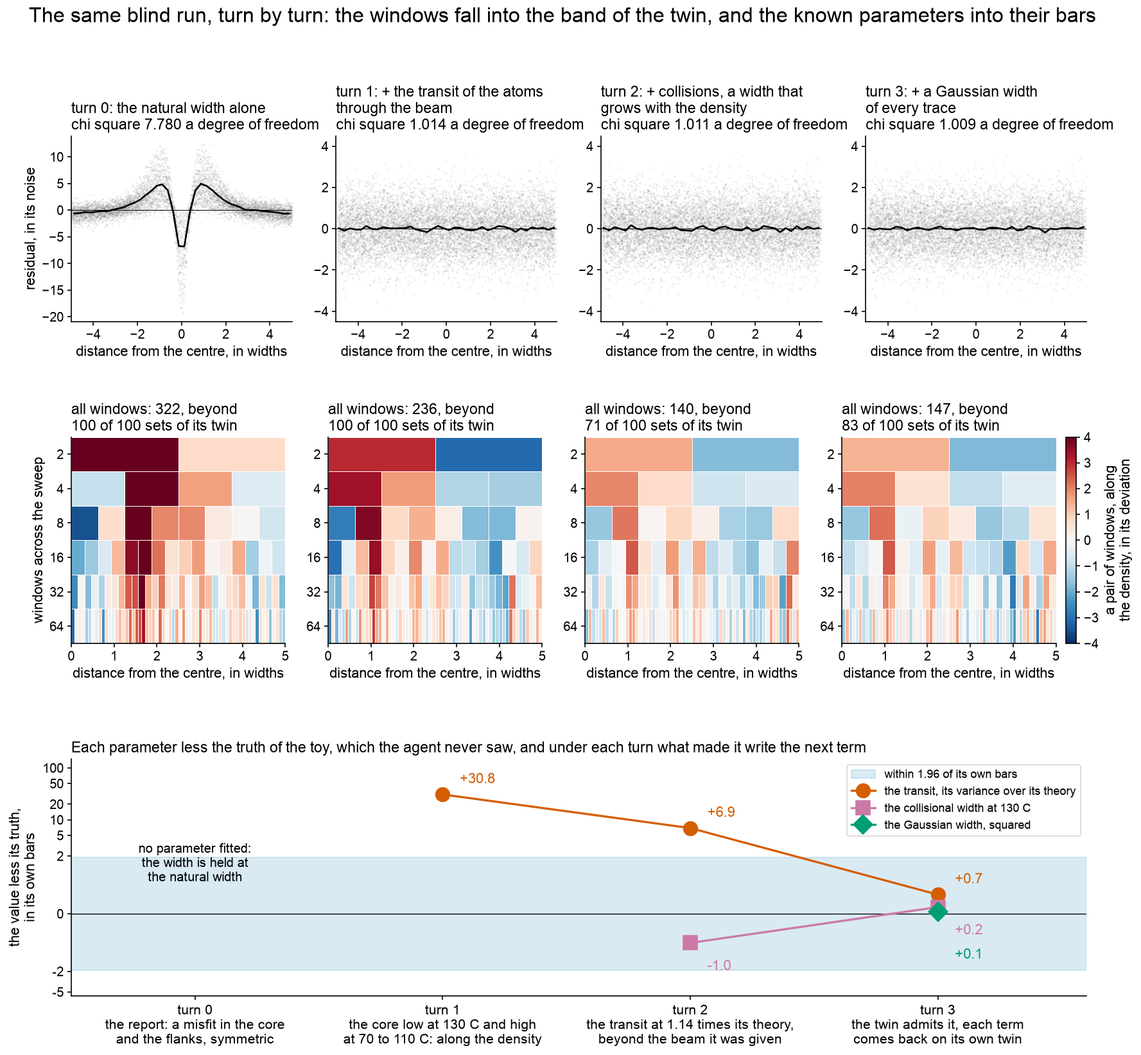
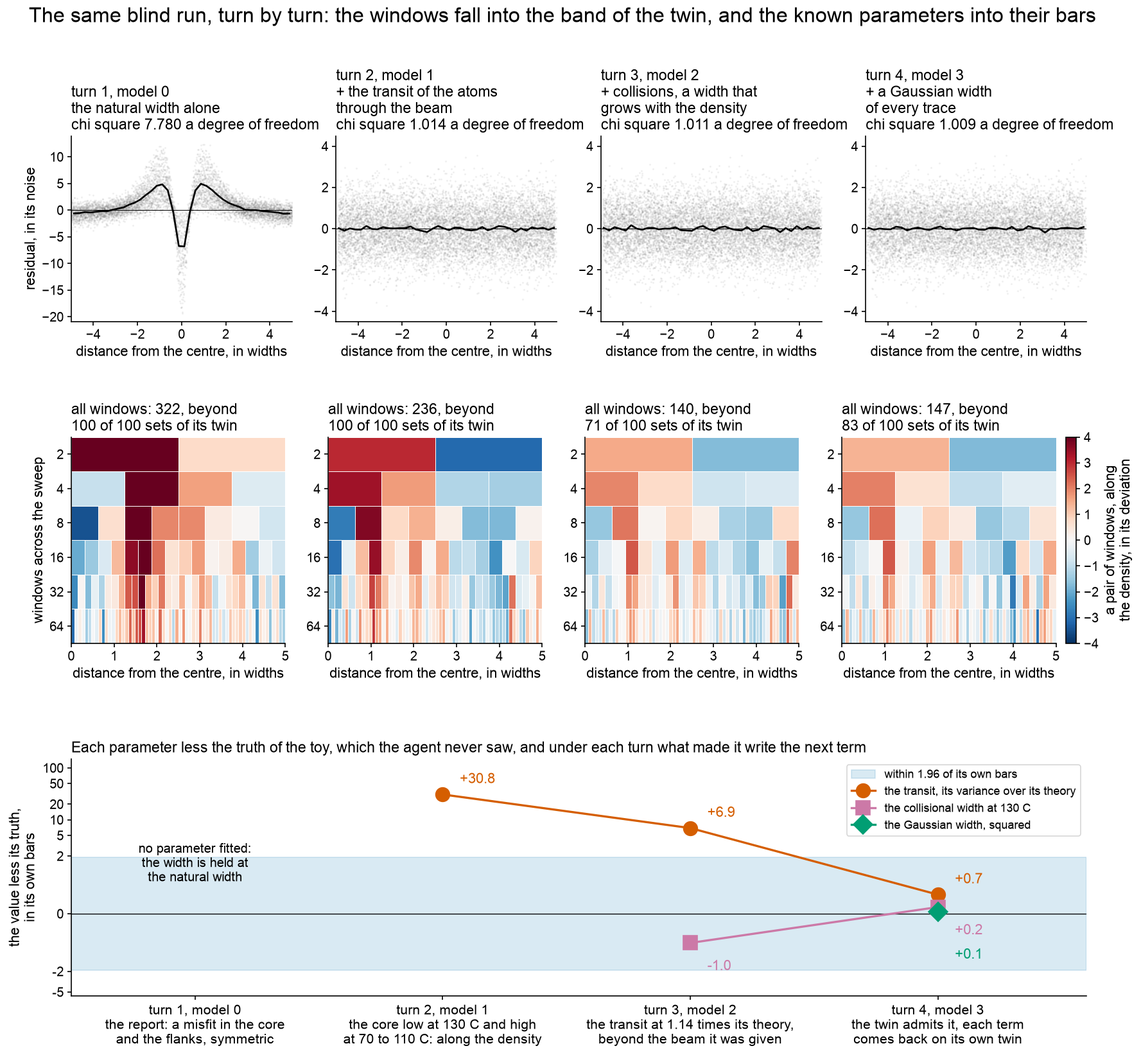
twinfit 0.0.8, the package as its release on PyPI holds it, exported from commit 1ba312b of the repository where it is made

diff --git a/twinfit/version.py b/twinfit/version.py
@@ -13,7 +13,7 @@ from __future__ import annotations
 import hashlib
 from pathlib import Path
 
-__version__ = "0.0.7"
+__version__ = "0.0.8"
 
 VERSIONS = {
[1 lines of base64/hex data omitted]
@@ -227,6 +227,11 @@ VERSIONS = {
         "the opening of the README, which PyPI shows, written as one page that presents the package, how it works, what it gives and what it cannot do, for a reader who meets it first, his message 232. 0.0.6 was never uploaded, so the release is this number",
         "the floors of the versions derived from the speed of numpy, as the other repository of this work derives them, his messages 233 and 234: numpy 2.5, which convolves about ten times faster than numpy 1.26 on the convolution of the term widened, and so Python 3.12 and scipy 1.16, each run by a clean leg, Python 3.12 with numpy 2.5.0 and scipy 1.16.0 and Python 3.14 with numpy 2.5.2 and scipy 1.18.0. pip refuses a version under a floor. The import of the package keeps its check of Python 3.11, numpy and scipy, since every count of the toy reads the file that holds it",
         "the two figures of the README drawn on a blind run of an agent on eight synthetic curves of a two photon line, his messages 235, 237 and 238: every sample, and the sums of what a fit leaves in pairs of windows cut at six scales, each a number that is noise about zero when nothing is missing, read against the twin of the fit, turn by turn",
[1 lines of base64/hex data omitted]
+        "repairs: review 39 of candidate 39: 0.0.7 was uploaded to PyPI on 2026-10-18 with the errors of its README that the review found, and a version is never replaced, so its repairs are this number",
+        "repairs of review 39, moderate 2: the floor of numpy said as a choice measured on one machine. On a Mac with an arm64 processor numpy 2.5.2 convolves 9000 by 2001 points in 0.80 ms against 10.0 ms for 1.26.4, and on Linux with an x86_64 processor the review measured 2.11 against 1.74 ms, so the speed-up is the build of numpy on the Mac, which the README, the tutorial and pyproject.toml now say",
+        "repairs of review 39, moderates 3, 4, 6 and 7: the opening of the README under 600 words from 1302, with the run of its figures said as the best of three on two draws of one synthetic model, which missed the smallest of the four terms and was stopped at two hours, the grid of the windows of its figure said as drawn for the figure where the report reads six bands, and turns counted from 1 and models from 0",
+        "repairs of review 39, moderate 5: the limit of the report said as a property of the method, which describes a miss by the shapes that it builds from the fitted model, without a nearest shape",
     )},
 }
 

diff --git a/twinfit/tutorial.py b/twinfit/tutorial.py
@@ -135,7 +135,7 @@ The words that the rest of this page uses, each once:
 - **A chi function** is the cost that a fit gives each residual over its noise: its square in a plain fit, another function of it in a fit that weighs large residuals less. Where the residuals are those of the noise, the two fits agree.""")
     say("""## 2. What you need
 
-Python 3.12 or later, with numpy 2.5 or later and scipy 1.16 or later: numpy 2.5 convolves about ten times faster than the versions before it, and the oldest versions that the package has run on are Python 3.12, numpy 2.5.0 and scipy 1.16.0. Where the Python of your machine is called `python3`, or lives at a path of its own, type that in the place of `python` in every command of this page. Install the package from PyPI, `pip install twinfit`, or from a folder that holds it, `pip install /the/folder/that/holds/twinfit`, or put that folder on the path of Python, `export PYTHONPATH=/the/folder/that/holds/twinfit`. Then this prints the version of the package:""")
+Python 3.12 or later, with numpy 2.5 or later and scipy 1.16 or later: numpy 2.5 convolves about ten times faster than numpy 1.26 on a Mac with an arm64 processor, and about as fast on Linux with an x86_64 processor, and the oldest versions that the package has run on are Python 3.12, numpy 2.5.0 and scipy 1.16.0. Where the Python of your machine is called `python3`, or lives at a path of its own, type that in the place of `python` in every command of this page. Install the package from PyPI, `pip install twinfit`, or from a folder that holds it, `pip install /the/folder/that/holds/twinfit`, or put that folder on the path of Python, `export PYTHONPATH=/the/folder/that/holds/twinfit`. Then this prints the version of the package:""")
     run('python -c "import twinfit; print(twinfit.__version__)"')
     say("""## 3. A worked project
 

diff --git a/README.md b/README.md
@@ -4,44 +4,38 @@ Where a model lacks a term: the structure of the residuals of a fit, read agains
 
 ## What it is for
 
-A model fitted to measured curves can pass the usual test of fit and still miss an effect: a broadening, a background, a drift, a distortion of the instrument. The missing effect biases the parameters that are quoted, and a chi square near one does not show it, since it sums over every sample what is often a small structure in one part of the curves. twinfit finds that structure, says what it looks like, and measures what it does to the parameters, for curves of any field: spectra, chromatograms, light curves, resonances, bands of a gel.
+A model fitted to measured curves can pass the usual test of fit and still miss an effect, a broadening, a background or a drift, which biases the quoted parameters while the chi square stays near one. twinfit finds the structure that the effect leaves, says what it looks like and measures what it does to the parameters, for curves of any field.
 
 ## How it works
 
-1. It fits one model to every curve of a design at once, curves recorded at several temperatures, powers, flows or filters, with parameters shared by all the curves and parameters of each curve.
-2. It reads what the fit leaves through families of statistics: moments of the residuals with several kernels and their ratios, moments of their derivative and of their running integral, windows along the abscissa, bands along the height of the curve, crossings of levels, and the chi of every sample.
-3. It sets every reading against a twin: synthetic curves drawn from the fitted model with the noise of the records, fitted and read in the same way. A reading that the twin does not reach is evidence that the model misses something, and the twin says how large a reading of a right model may be.
-4. It compares what the fit leaves with generic shapes built from the fitted model itself: a shifted copy of the curve, a wider pedestal under it, a tail on one side, a slow polynomial of the baseline, a ripple, glitches, a noise that grows with the signal or is correlated from sample to sample. Its report says where the model misses, in the core, the flanks, the wings or the asymmetry of the curves, which of those shapes the miss resembles, and along which setting of the design it changes.
-5. A researcher, or an agent in the researcher's place, writes the physical effect that would leave that structure as a term of the model. twinfit fits it, keeps or refuses it on its twin, and reads the new model again. That is the loop.
-6. Each turn of the loop ends with three proposals for the model and three for the experiment, each measured on the twin. A proposal for the model comes with the bias of every known parameter on the twin without the proposed term and with it.
+1. It fits one model to every curve of a design at once, with parameters shared by all the curves and parameters of each curve.
+2. It reads what the fit leaves through families of statistics, among them sums over pairs of windows about the centre of the curve, and sets each against a twin: synthetic curves drawn from the fitted model with the noise of the records, fitted and read in the same way.
+3. Its report says where the model misses, which shape among those that it builds from the fitted model the miss takes, and along which setting of the design it changes.
+4. A researcher, or an agent in the researcher's place, writes the physical effect as a term. twinfit keeps it only if the Bayesian criterion falls by more than 2 and the twin admits the new model, and ends each turn with three proposals for the model and three for the experiment.
 
 ![A fit that looks right, read against its twin](https://raw.githubusercontent.com/MichelangeloDondi/twinfit/main/twinfit/examples/figures/against_the_twin.png)
 
-*A blind run of an agent with the package, on eight synthetic curves of the line of the real case of `RUBIDIUM.md`, at four temperatures and five powers, drawn from a model whose terms the agent was never told. (a, b) Its second model, the line widened by the time that each atom spends in the beam, fits with a chi square of 1.014 a degree of freedom, and what it leaves looks like noise sample by sample. (c) The distances from the centre of the line cut into 2, 4, 8, 16, 32 and 64 windows, each a pair at equal distances on the two sides, and in each the sum of what the fit leaves, the curves weighted by the density of the vapour less its mean, in its standard deviation after the fit: a number that is noise about zero when nothing is missing, as (d) shows on a synthetic set of the twin. (e) The moments of orders 0, 2 and 4 within windows of growing half width, along the density, beside each of 100 sets of the twin. (f) Each scale read together: where the windows are wide, what the fit leaves adds up and the noise does not, and the second model stands beyond all 100 sets of its twin, while the fourth, with the width that grows with the density and the width of every curve that the agent wrote next, stands within it.*
+*A blind run of an agent on eight synthetic curves of the line of `RUBIDIUM.md`. (a, b) Turn 2, model 1, fits with a chi square of 1.014 a degree of freedom. (c, d) What it leaves, summed in pairs of windows at six scales along the density, a grid drawn for this figure where the report of the package reads six bands: noise about zero when nothing is missing, as on a set of the twin. (e, f) Model 1 stands beyond all 100 sets of its twin, and model 3 within them.*
 
 ## What it gives
 
-The best model after the turns, and each of its parameters with five parts of its uncertainty, never folded into one number: the bar of the fit, the coverage of its interval on the twin with the bias beside it, the bar of the values held from theory, the spread over the models that the records cannot tell apart from the best, and no bar at all where the records fix a combination of two parameters and not each.
+The best model, and each parameter with five parts of its uncertainty, never folded into one number: the bar of the fit, its coverage on the twin, the bar of theory, the spread over models the records cannot tell apart, and none where they fix only a combination.
 
 ![Turn by turn](https://raw.githubusercontent.com/MichelangeloDondi/twinfit/main/twinfit/examples/figures/turn_by_turn.png)
 
-*The same run, turn by turn. Top, what each model leaves, every sample. Middle, its windows along the density, read together against 100 sets of its twin. Bottom, each parameter less the value that made the curves, which the agent never saw, in its own bars, and under each turn what made the agent write the next term. With the time in the beam alone the size of that term reads 31 bars too large while the chi square is 1.014: the terms that the model lacks hide in it. The width along the density, which the windows asked for, takes it to 6.9 bars. The width of every curve, asked because that size still stood beyond the theory of the beam that the description gives, takes it to 0.7, and every parameter of the fourth model lies within its bars of the truth.*
+*The same run, turn by turn. With model 1 the size of its term reads 31 bars too large at a chi square of 1.014. The width along the density takes it to 6.9 bars, and the width of every curve to 0.7, within its bars. The best of three blind runs on two draws of one synthetic model: it found three of its four terms, missed the smallest, and was stopped at two hours.*
 
 ## Its limits
 
-If a parameter already in the model can take the place of the missing effect completely, the effect leaves nothing in the residuals, and no statistic can see it. A structure unlike every generic shape is described by the nearest of them, so the report says what the miss looks like and never what causes it: the physics is the researcher's. And a term chosen because the report ranked it first was chosen after looking at the records, so its interval keeps its stated level only once synthetic records with the term have shown what the whole procedure returns.
+An effect that a parameter of the model can take the place of leaves nothing in the residuals. The report says what a miss looks like, never what causes it. A model that its twin admits is not proven complete, and a term chosen after looking at the records keeps its stated level only once synthetic records with it have shown what the whole procedure returns.
 
 ## By hand, or with an agent
 
-`twinfit/TUTORIAL.md` takes a newcomer from nothing to the best model. `twinfit/agent/AGENT.md` is a protocol that lets an agent, an AI assistant that runs commands, take the place of the researcher: read the report, choose a term from it and from the physics, have it checked by a second agent, fit it and report. `twinfit/EXAMPLES.md` holds nine projects of other fields, each drawn with a truth that its folder does not hold, and what the first report of each led with.
-
-## In more words
-
-You give it curves recorded across a design, such as spectra at several temperatures, chromatograms at several flows or light curves of several stars, with the model that should describe them. It fits the model to every curve at once, reads the structure of what the fit leaves, curve by curve, with families of statistics of the curve, of its values and of their transformations, and reads how that structure changes from one setting of the design to the next. It sets every reading against a twin: synthetic curves drawn from the fitted model with the noise of the records, fitted and read the same way. It then says where a term is missing, in the core of the curves, in their wings or in their asymmetry, of which kind, and along which setting. It fits the terms that you, or an agent, write in answer, keeps or refuses each, and ends each iteration with three proposals for the model and three for the experiment. Its output is the best model, with five parts of the uncertainty of each parameter.
+`twinfit/TUTORIAL.md` takes a newcomer to the best model. `twinfit/agent/AGENT.md` lets an agent, an AI assistant that runs commands, take the place of the researcher. `twinfit/EXAMPLES.md` holds nine projects of other fields.
 
 ## What it needs
 
-Python 3.12 or later, with numpy 2.5 or later and scipy 1.16 or later. Nothing else. numpy 2.5 is the floor because it convolves about ten times faster than the versions before it, which a term with a kernel uses on every curve, and it asks Python 3.12 and scipy 1.16. The package has run on Python 3.12 with numpy 2.5.0 and scipy 1.16.0, and on Python 3.14 with numpy 2.5.2 and scipy 1.18.0, each in a clean environment: on both the five minutes below and the whole gallery give the same numbers and the same words, all but their run times.
+Python 3.12 or later, with numpy 2.5 or later and scipy 1.16 or later. Nothing else. numpy 2.5 is the floor of the author's choice: on a Mac with an arm64 processor, one thread, it convolves a curve of 9000 points with a kernel of 2001 in 0.80 ms, against 10.0 ms for numpy 1.26.4, while on Linux with an x86_64 processor the two took about the same time, 2.1 and 1.7 ms. numpy 2.5 asks Python 3.12 and scipy 1.16. The package has run on Python 3.12 with numpy 2.5.0 and scipy 1.16.0, and on Python 3.14 with numpy 2.5.2 and scipy 1.18.0, each in a clean environment: on both the five minutes below and the whole gallery give the same numbers and the same words, all but their run times.
 
 ```
 pip install twinfit

diff --git a/twinfit/README.md b/twinfit/README.md
@@ -4,44 +4,38 @@ Where a model lacks a term: the structure of the residuals of a fit, read agains
 
 ## What it is for
 
-A model fitted to measured curves can pass the usual test of fit and still miss an effect: a broadening, a background, a drift, a distortion of the instrument. The missing effect biases the parameters that are quoted, and a chi square near one does not show it, since it sums over every sample what is often a small structure in one part of the curves. twinfit finds that structure, says what it looks like, and measures what it does to the parameters, for curves of any field: spectra, chromatograms, light curves, resonances, bands of a gel.
+A model fitted to measured curves can pass the usual test of fit and still miss an effect, a broadening, a background or a drift, which biases the quoted parameters while the chi square stays near one. twinfit finds the structure that the effect leaves, says what it looks like and measures what it does to the parameters, for curves of any field.
 
 ## How it works
 
-1. It fits one model to every curve of a design at once, curves recorded at several temperatures, powers, flows or filters, with parameters shared by all the curves and parameters of each curve.
-2. It reads what the fit leaves through families of statistics: moments of the residuals with several kernels and their ratios, moments of their derivative and of their running integral, windows along the abscissa, bands along the height of the curve, crossings of levels, and the chi of every sample.
-3. It sets every reading against a twin: synthetic curves drawn from the fitted model with the noise of the records, fitted and read in the same way. A reading that the twin does not reach is evidence that the model misses something, and the twin says how large a reading of a right model may be.
-4. It compares what the fit leaves with generic shapes built from the fitted model itself: a shifted copy of the curve, a wider pedestal under it, a tail on one side, a slow polynomial of the baseline, a ripple, glitches, a noise that grows with the signal or is correlated from sample to sample. Its report says where the model misses, in the core, the flanks, the wings or the asymmetry of the curves, which of those shapes the miss resembles, and along which setting of the design it changes.
-5. A researcher, or an agent in the researcher's place, writes the physical effect that would leave that structure as a term of the model. twinfit fits it, keeps or refuses it on its twin, and reads the new model again. That is the loop.
-6. Each turn of the loop ends with three proposals for the model and three for the experiment, each measured on the twin. A proposal for the model comes with the bias of every known parameter on the twin without the proposed term and with it.
+1. It fits one model to every curve of a design at once, with parameters shared by all the curves and parameters of each curve.
+2. It reads what the fit leaves through families of statistics, among them sums over pairs of windows about the centre of the curve, and sets each against a twin: synthetic curves drawn from the fitted model with the noise of the records, fitted and read in the same way.
+3. Its report says where the model misses, which shape among those that it builds from the fitted model the miss takes, and along which setting of the design it changes.
+4. A researcher, or an agent in the researcher's place, writes the physical effect as a term. twinfit keeps it only if the Bayesian criterion falls by more than 2 and the twin admits the new model, and ends each turn with three proposals for the model and three for the experiment.
 
 ![A fit that looks right, read against its twin](https://raw.githubusercontent.com/MichelangeloDondi/twinfit/main/twinfit/examples/figures/against_the_twin.png)
 
-*A blind run of an agent with the package, on eight synthetic curves of the line of the real case of `RUBIDIUM.md`, at four temperatures and five powers, drawn from a model whose terms the agent was never told. (a, b) Its second model, the line widened by the time that each atom spends in the beam, fits with a chi square of 1.014 a degree of freedom, and what it leaves looks like noise sample by sample. (c) The distances from the centre of the line cut into 2, 4, 8, 16, 32 and 64 windows, each a pair at equal distances on the two sides, and in each the sum of what the fit leaves, the curves weighted by the density of the vapour less its mean, in its standard deviation after the fit: a number that is noise about zero when nothing is missing, as (d) shows on a synthetic set of the twin. (e) The moments of orders 0, 2 and 4 within windows of growing half width, along the density, beside each of 100 sets of the twin. (f) Each scale read together: where the windows are wide, what the fit leaves adds up and the noise does not, and the second model stands beyond all 100 sets of its twin, while the fourth, with the width that grows with the density and the width of every curve that the agent wrote next, stands within it.*
+*A blind run of an agent on eight synthetic curves of the line of `RUBIDIUM.md`. (a, b) Turn 2, model 1, fits with a chi square of 1.014 a degree of freedom. (c, d) What it leaves, summed in pairs of windows at six scales along the density, a grid drawn for this figure where the report of the package reads six bands: noise about zero when nothing is missing, as on a set of the twin. (e, f) Model 1 stands beyond all 100 sets of its twin, and model 3 within them.*
 
 ## What it gives
 
-The best model after the turns, and each of its parameters with five parts of its uncertainty, never folded into one number: the bar of the fit, the coverage of its interval on the twin with the bias beside it, the bar of the values held from theory, the spread over the models that the records cannot tell apart from the best, and no bar at all where the records fix a combination of two parameters and not each.
+The best model, and each parameter with five parts of its uncertainty, never folded into one number: the bar of the fit, its coverage on the twin, the bar of theory, the spread over models the records cannot tell apart, and none where they fix only a combination.
 
 ![Turn by turn](https://raw.githubusercontent.com/MichelangeloDondi/twinfit/main/twinfit/examples/figures/turn_by_turn.png)
 
-*The same run, turn by turn. Top, what each model leaves, every sample. Middle, its windows along the density, read together against 100 sets of its twin. Bottom, each parameter less the value that made the curves, which the agent never saw, in its own bars, and under each turn what made the agent write the next term. With the time in the beam alone the size of that term reads 31 bars too large while the chi square is 1.014: the terms that the model lacks hide in it. The width along the density, which the windows asked for, takes it to 6.9 bars. The width of every curve, asked because that size still stood beyond the theory of the beam that the description gives, takes it to 0.7, and every parameter of the fourth model lies within its bars of the truth.*
+*The same run, turn by turn. With model 1 the size of its term reads 31 bars too large at a chi square of 1.014. The width along the density takes it to 6.9 bars, and the width of every curve to 0.7, within its bars. The best of three blind runs on two draws of one synthetic model: it found three of its four terms, missed the smallest, and was stopped at two hours.*
 
 ## Its limits
 
-If a parameter already in the model can take the place of the missing effect completely, the effect leaves nothing in the residuals, and no statistic can see it. A structure unlike every generic shape is described by the nearest of them, so the report says what the miss looks like and never what causes it: the physics is the researcher's. And a term chosen because the report ranked it first was chosen after looking at the records, so its interval keeps its stated level only once synthetic records with the term have shown what the whole procedure returns.
+An effect that a parameter of the model can take the place of leaves nothing in the residuals. The report says what a miss looks like, never what causes it. A model that its twin admits is not proven complete, and a term chosen after looking at the records keeps its stated level only once synthetic records with it have shown what the whole procedure returns.
 
 ## By hand, or with an agent
 
-`twinfit/TUTORIAL.md` takes a newcomer from nothing to the best model. `twinfit/agent/AGENT.md` is a protocol that lets an agent, an AI assistant that runs commands, take the place of the researcher: read the report, choose a term from it and from the physics, have it checked by a second agent, fit it and report. `twinfit/EXAMPLES.md` holds nine projects of other fields, each drawn with a truth that its folder does not hold, and what the first report of each led with.
-
-## In more words
-
-You give it curves recorded across a design, such as spectra at several temperatures, chromatograms at several flows or light curves of several stars, with the model that should describe them. It fits the model to every curve at once, reads the structure of what the fit leaves, curve by curve, with families of statistics of the curve, of its values and of their transformations, and reads how that structure changes from one setting of the design to the next. It sets every reading against a twin: synthetic curves drawn from the fitted model with the noise of the records, fitted and read the same way. It then says where a term is missing, in the core of the curves, in their wings or in their asymmetry, of which kind, and along which setting. It fits the terms that you, or an agent, write in answer, keeps or refuses each, and ends each iteration with three proposals for the model and three for the experiment. Its output is the best model, with five parts of the uncertainty of each parameter.
+`twinfit/TUTORIAL.md` takes a newcomer to the best model. `twinfit/agent/AGENT.md` lets an agent, an AI assistant that runs commands, take the place of the researcher. `twinfit/EXAMPLES.md` holds nine projects of other fields.
 
 ## What it needs
 
-Python 3.12 or later, with numpy 2.5 or later and scipy 1.16 or later. Nothing else. numpy 2.5 is the floor because it convolves about ten times faster than the versions before it, which a term with a kernel uses on every curve, and it asks Python 3.12 and scipy 1.16. The package has run on Python 3.12 with numpy 2.5.0 and scipy 1.16.0, and on Python 3.14 with numpy 2.5.2 and scipy 1.18.0, each in a clean environment: on both the five minutes below and the whole gallery give the same numbers and the same words, all but their run times.
+Python 3.12 or later, with numpy 2.5 or later and scipy 1.16 or later. Nothing else. numpy 2.5 is the floor of the author's choice: on a Mac with an arm64 processor, one thread, it convolves a curve of 9000 points with a kernel of 2001 in 0.80 ms, against 10.0 ms for numpy 1.26.4, while on Linux with an x86_64 processor the two took about the same time, 2.1 and 1.7 ms. numpy 2.5 asks Python 3.12 and scipy 1.16. The package has run on Python 3.12 with numpy 2.5.0 and scipy 1.16.0, and on Python 3.14 with numpy 2.5.2 and scipy 1.18.0, each in a clean environment: on both the five minutes below and the whole gallery give the same numbers and the same words, all but their run times.
 
 ```
 pip install twinfit

diff --git a/twinfit/TUTORIAL.md b/twinfit/TUTORIAL.md
@@ -2,7 +2,7 @@
 
 This tutorial takes you from nothing to the best model of a set of curves, with the uncertainty of each of its parameters and six proposals, three for the model and three for the experiment. It runs on two worked projects that the package writes, one of nuclear magnetic resonance and one of chromatography, so nothing of yours is needed to follow it. Their curves were drawn from a known truth, so you can see whether the package finds it.
 
-Every command below was run as it is written, in an empty folder, and every output is what it printed. `python -m twinfit.tutorial --check` runs them all again, in a temporary folder, and says whether any output changed. Here the whole of it ran in 90 seconds, on a machine at rest: one busy with other work takes two or three times as long.
+Every command below was run as it is written, in an empty folder, and every output is what it printed. `python -m twinfit.tutorial --check` runs them all again, in a temporary folder, and says whether any output changed. Here the whole of it ran in 101 seconds, on a machine at rest: one busy with other work takes two or three times as long.
 
 ## 1. What the package does
 
@@ -37,14 +37,14 @@ The words that the rest of this page uses, each once:
 
 ## 2. What you need
 
-Python 3.12 or later, with numpy 2.5 or later and scipy 1.16 or later: numpy 2.5 convolves about ten times faster than the versions before it, and the oldest versions that the package has run on are Python 3.12, numpy 2.5.0 and scipy 1.16.0. Where the Python of your machine is called `python3`, or lives at a path of its own, type that in the place of `python` in every command of this page. Install the package from PyPI, `pip install twinfit`, or from a folder that holds it, `pip install /the/folder/that/holds/twinfit`, or put that folder on the path of Python, `export PYTHONPATH=/the/folder/that/holds/twinfit`. Then this prints the version of the package:
+Python 3.12 or later, with numpy 2.5 or later and scipy 1.16 or later: numpy 2.5 convolves about ten times faster than numpy 1.26 on a Mac with an arm64 processor, and about as fast on Linux with an x86_64 processor, and the oldest versions that the package has run on are Python 3.12, numpy 2.5.0 and scipy 1.16.0. Where the Python of your machine is called `python3`, or lives at a path of its own, type that in the place of `python` in every command of this page. Install the package from PyPI, `pip install twinfit`, or from a folder that holds it, `pip install /the/folder/that/holds/twinfit`, or put that folder on the path of Python, `export PYTHONPATH=/the/folder/that/holds/twinfit`. Then this prints the version of the package:
 
 ```bash
 python -c "import twinfit; print(twinfit.__version__)"
 ```
 
 ```
-0.0.7
+0.0.8
 ```
 
 ## 3. A worked project
